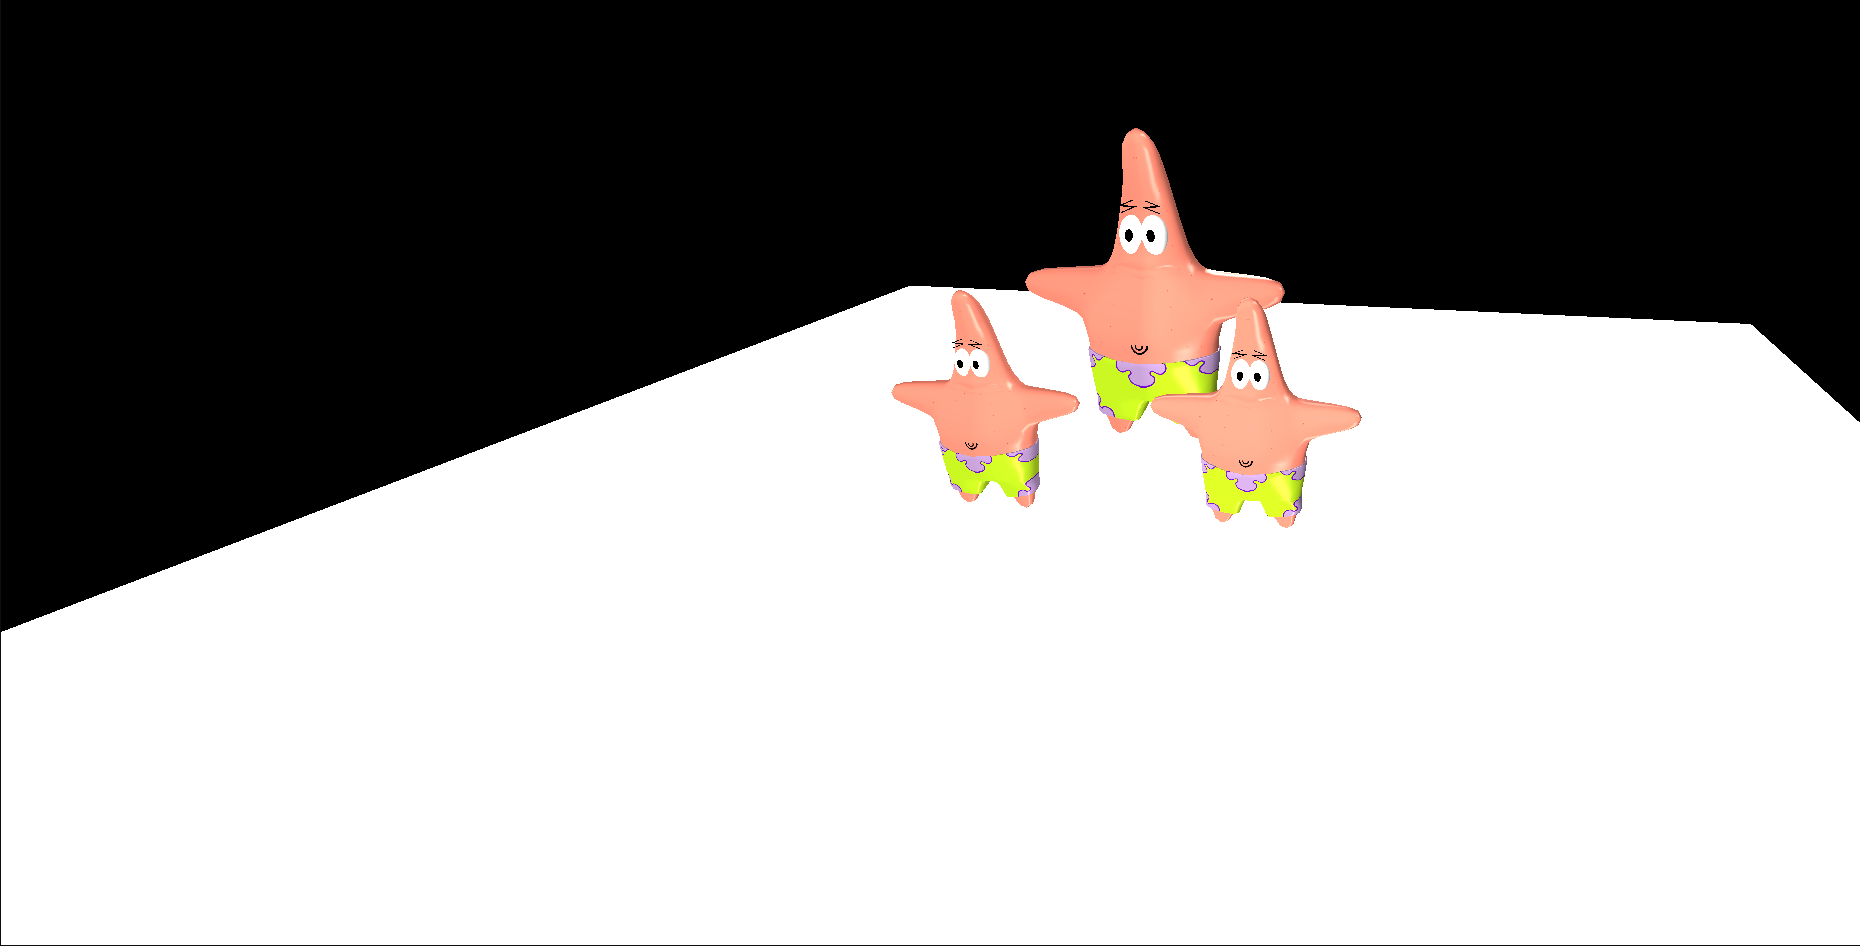
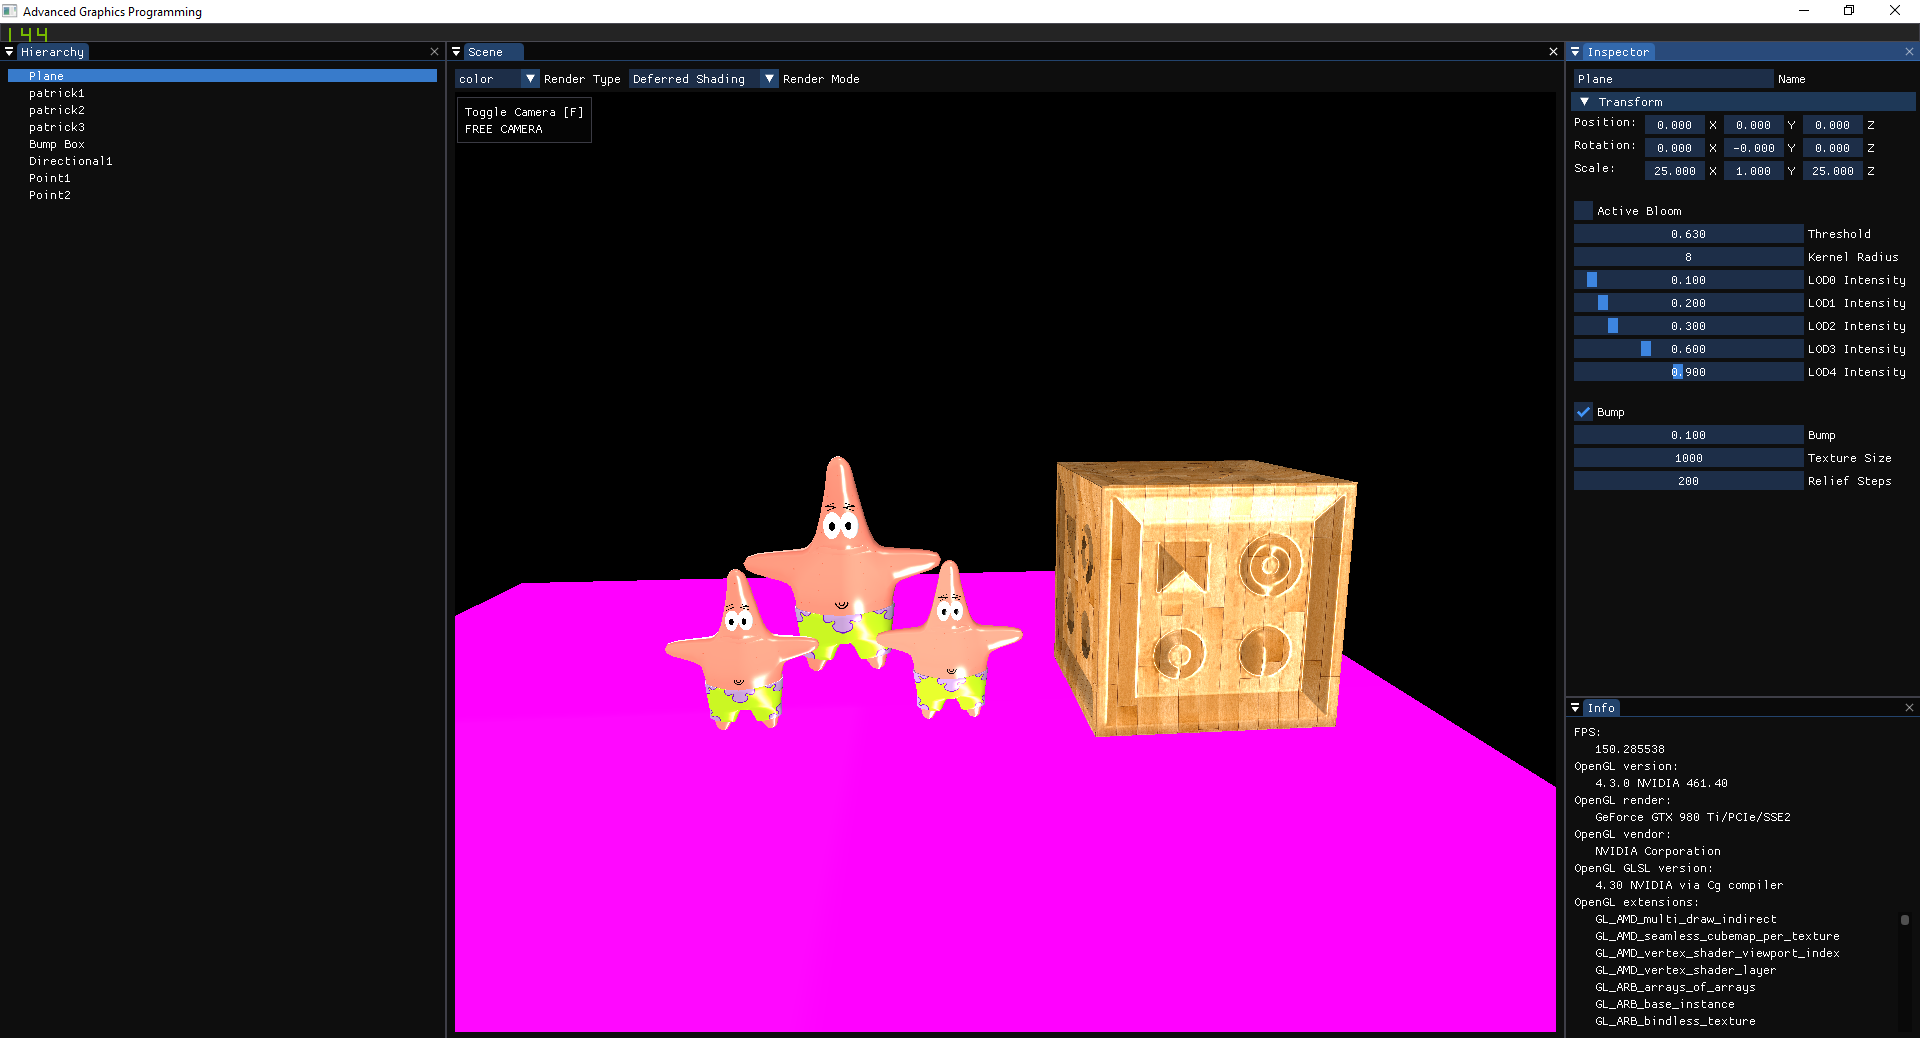
changed plane color

diff --git a/Engine/Code/engine.cpp b/Engine/Code/engine.cpp
@@ -524,7 +524,7 @@ void Init(App* app)
 
     //Texture Initialization
 
-    app->whiteTexIdx = LoadTexture2D(app, "Plane/color_white.png");
+    app->whiteTexIdx = LoadTexture2D(app, "Plane/color_magenta.png");
 
     //Texture bump Init
     app->albedobump = LoadTexture2D(app, "Bump/wood.png");
